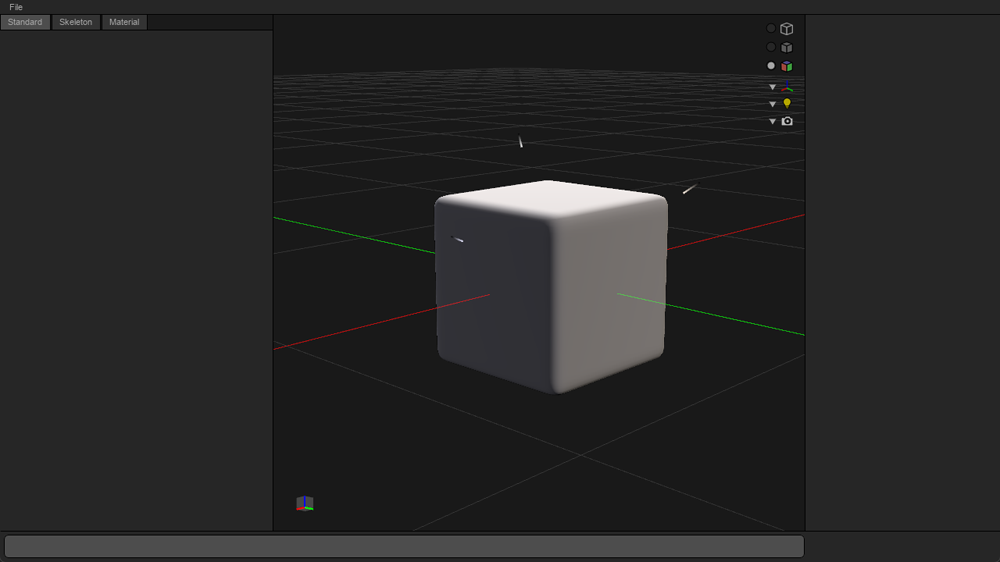
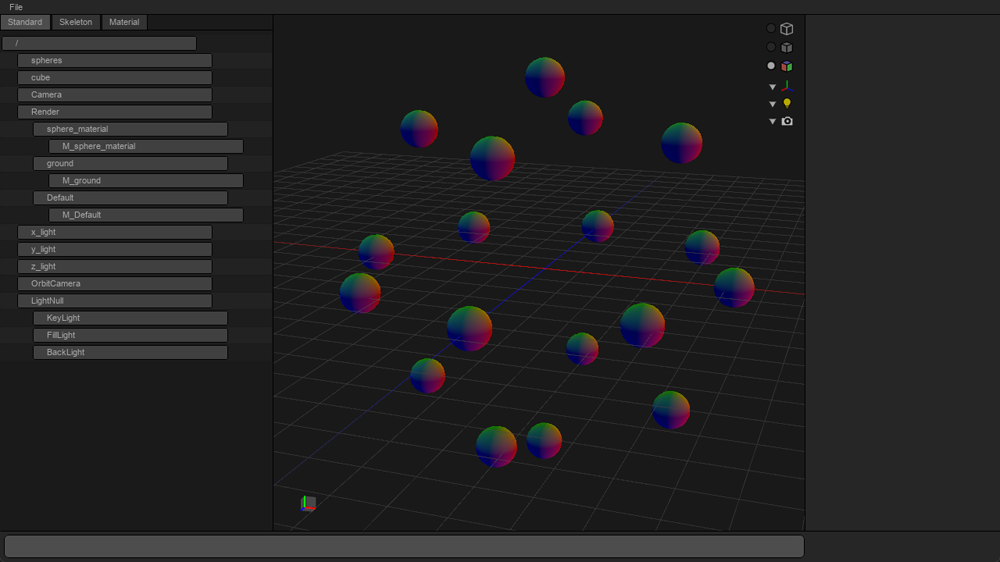
Outliner testing..

diff --git a/tool/panel/outliner_panel.py b/tool/panel/outliner_panel.py
@@ -10,6 +10,10 @@ import os
 
 # ADDONS
 from imgui_bundle import imgui
+import pxr.Usd as pusd
+import pxr.UsdGeom as pgeo
+import pxr.UsdShade as pshd
+
 
 # PROJECT
 import core.static_core as cstat
@@ -44,6 +48,7 @@ class OutlinerPanel(cbase.Panel):
         imgui.push_style_var(imgui.StyleVar_.tab_rounding, 0.0)
         imgui.push_style_var(imgui.StyleVar_.frame_padding, (10, 5))
         imgui.push_style_var(imgui.StyleVar_.item_inner_spacing, (1, 1))
+        imgui.push_style_var(imgui.StyleVar_.item_spacing, (5, 0))
 
         imgui.push_style_color(imgui.Col_.tab, (0.2, 0.2, 0.2, 1))
         imgui.push_style_color(imgui.Col_.tab_selected, (0.3, 0.3, 0.3, 1))
@@ -54,6 +59,12 @@ class OutlinerPanel(cbase.Panel):
         selected, clicked = imgui.begin_tab_item("Standard")
         if selected:
             self._draw_base_tab()
+            imgui.set_cursor_pos_y(imgui.get_cursor_pos_y())
+            if imgui.begin_child("##outliner_standard", (0, 0)):
+                imgui.new_line()
+                imgui.set_cursor_pos_y(imgui.get_cursor_pos_y())
+                self._draw_standard_tab()
+                imgui.end_child()
             imgui.end_tab_item()
         selected, clicked = imgui.begin_tab_item("Skeleton")
         if selected:
@@ -69,8 +80,7 @@ class OutlinerPanel(cbase.Panel):
         tab_line_max = imgui.ImVec2(tab_line_min[0] + imgui.get_window_width(), tab_line_min[1] + 1)
         draw_list = imgui.get_window_draw_list()
         draw_list.add_rect_filled(tab_line_min, tab_line_max, imgui.get_color_u32((0, 0, 0, 1)), rounding=0.0, flags=0)
-
-        imgui.pop_style_var(5)
+        imgui.pop_style_var(6)
         imgui.pop_style_color(3)
 
     def _draw_base_tab(self) -> None:
@@ -81,9 +91,62 @@ class OutlinerPanel(cbase.Panel):
         cursor_pos = imgui.get_cursor_pos()
         window_pos = imgui.get_window_pos()
         window_size = imgui.get_window_size()
-        bg_rect_min = imgui.ImVec2(window_pos[0], window_pos[1] + cursor_pos[1] - 5)
+        bg_rect_min = imgui.ImVec2(window_pos[0], window_pos[1] + cursor_pos[1])
         bg_rect_max = imgui.ImVec2(window_size[0], window_size[1]) + window_pos
-        draw_list.add_rect_filled(bg_rect_min, bg_rect_max, imgui.get_color_u32((0.15, 0.15, 0.15, 1)), rounding=0.0, flags=0)
+        draw_list.add_rect_filled(bg_rect_min, bg_rect_max, imgui.get_color_u32((0.1, 0.1, 0.1, 1)), rounding=0.0, flags=0)
+
+    def _draw_standard_tab(self) -> None:
+        if self._stage:
+            root = self._scene_manager.get_root()
+            self._node_index = 0
+            self._recursive_node_draw(root, 0)
+                
+    def _recursive_node_draw(self, node: pusd.Prim, indent: int) -> None:
+        """
+        Recursively traverse the USD stage and draw the nodes.
+        """
+        if node.IsValid():
+            self._draw_test_node(node, indent)
+            node_children = node.GetChildren()
+            if node_children:
+                for child in node_children:
+                    self._recursive_node_draw(child, indent + 1)
+            
+
+    def _draw_test_node(self, node: pusd.Prim, indent: int) -> None:
+        """
+        Draw a test node in the outliner.
+        """
+        imgui.set_cursor_pos_y(imgui.get_cursor_pos_y() + 33)
+        indent_size_x = 20
+        odd_index = self._node_index % 2 == 0
+        draw_list = imgui.get_window_draw_list()
+        node_name = node.GetName()
+        node_type = node.GetTypeName()
+        indent_cursor_pos_x = indent * indent_size_x
+        imgui.set_cursor_pos_x(0)
+        bg_max_x = imgui.get_content_region_avail()[0] - 2
+        bg_rect_min = imgui.ImVec2(imgui.get_cursor_pos_x(), imgui.get_cursor_pos_y())
+        bg_rect_max = imgui.ImVec2(bg_max_x, bg_rect_min[1] + 21)
+        bg_color = (0.2, 0.2, 0.2, 0.1) if odd_index else (0.4, 0.4, 0.4, 0.1)
+        draw_list.add_rect_filled(bg_rect_min, bg_rect_max, imgui.get_color_u32(bg_color), rounding=2.0)
+        
+        node_rect_min = (indent_cursor_pos_x + 2, imgui.get_cursor_pos_y() + 1)
+        node_rect_max = (node_rect_min[0] +  250, node_rect_min[1] + 19)
+        node_base_color = (0.25, 0.25, 0.25, 1)
+        node_hover_color = (0.35, 0.35, 0.35, 1)
+        node_selected_color = (0.45, 0.45, 0.45, 1)
+        draw_list.add_rect_filled(node_rect_min, node_rect_max, imgui.get_color_u32(node_base_color), rounding=2.0)
+        draw_list.add_rect(node_rect_min, node_rect_max, imgui.get_color_u32((0, 0, 0, 1)), rounding=2.0)
+
+        imgui.push_style_color(imgui.Col_.text, (0.66, 0.66, 0.66, 1))
+        imgui.same_line()
+        imgui.set_cursor_pos_x(indent_cursor_pos_x + 20)
+        imgui.set_cursor_pos_y(imgui.get_cursor_pos_y() + 10)
+        imgui.text(node_name)
+        imgui.pop_style_color(1)
+        self._node_index += 1
+        imgui.new_line()
 
 
     def draw(self) -> None:
@@ -94,7 +157,7 @@ class OutlinerPanel(cbase.Panel):
         imgui.set_next_window_pos(self._panel_position)
         imgui.begin(self._name, True, self._window_flags)
         self._draw_tab_bar()
-        self._draw_vertical_separator()    
+        self._draw_vertical_separator()
 
     
 

diff --git a/tool/base_tool.py b/tool/base_tool.py
@@ -51,6 +51,9 @@ class USDAssetViewer(cbase.Frame):
             usd_path = os.path.join(cutils.get_usd_default_path(), self._cfg['settings']['default_usd'])
         self._scene_manager = cbase.SceneManager(usd_path)
         self._viewport.update_usd()
+        self._outliner_panel.update_usd()
+        self._details_panel.update_usd()
+        self._trackbar_panel.update_usd()
 
     def _set_window_flags(self):
         super()._set_window_flags()
